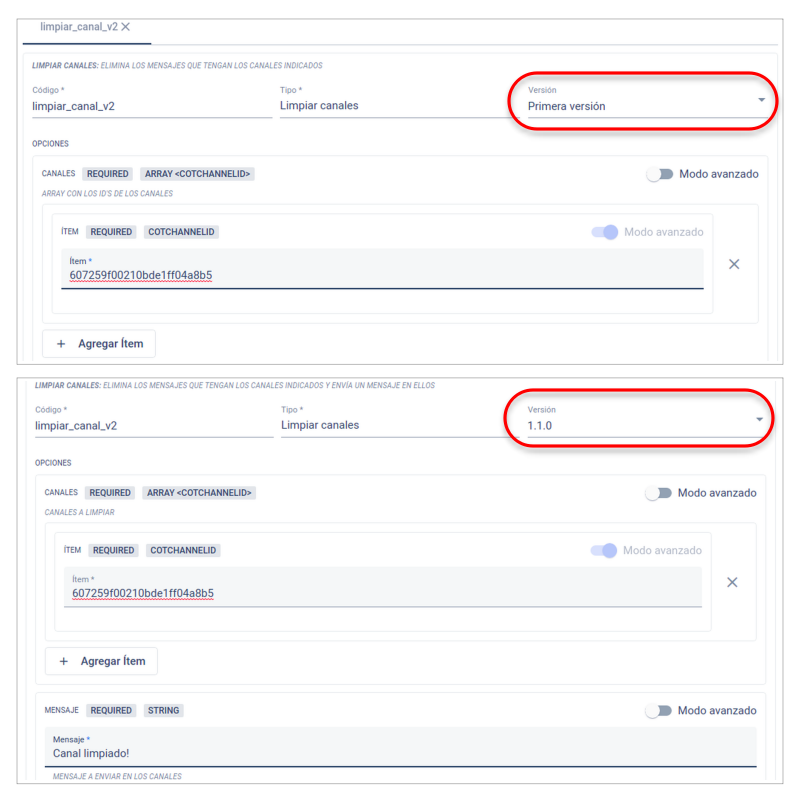
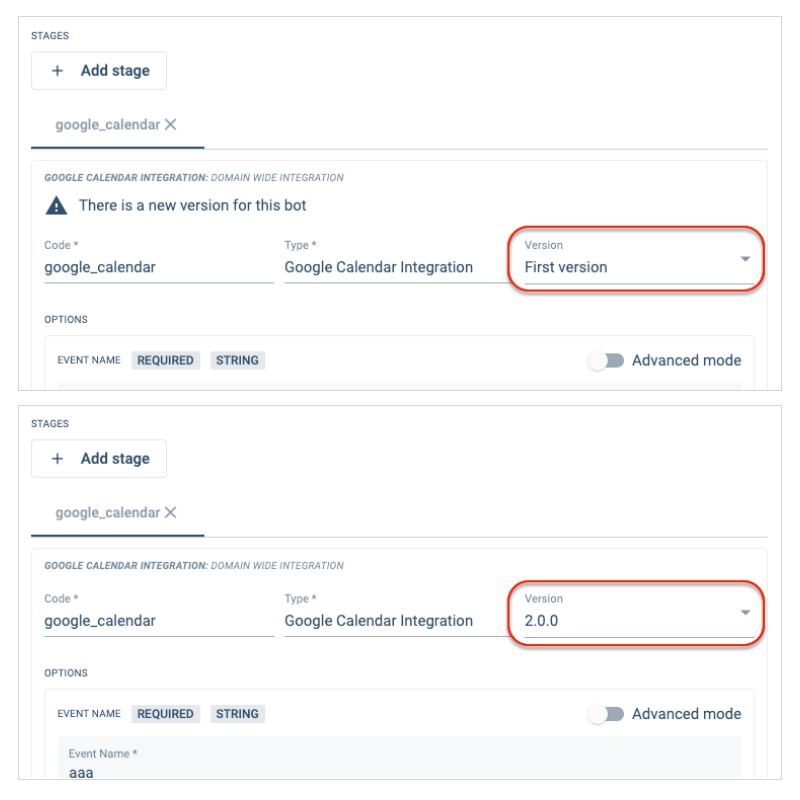
Revised and edited

diff --git a/docs/documentation/automation/existing_routines.md b/docs/documentation/automation/existing_routines.md
@@ -24,58 +24,92 @@ Stage Types are explained in the following table:
 
 | Stage Type Name (Bot) | Description | Key |
 | ---- | ---- | ---- |
-| [Custom Javascript Code](/docs/documentation/automation/bots/ccjs) | Sandboxed JS runner. | _CCJS_ |
-| [Iterate](/docs/documentation/automation/bots/fceach) | Iterate over an Array | _FCEach_ |
-| [Conditional](/docs/documentation/automation/bots/fcifelse) | Execute the next stage conditionally based on the operator's left and right hand | _FCIfElse_ |
-| [Wait](/docs/documentation/automation/bots/fcsleep) | Execute the next stage after the defined milliseconds | _FCSleep_ |
-| [Multiple switch](/docs/documentation/automation/bots/fcswitchall) | Execute all stages conditionally and in parallel according to the operator's left and right hand | _FCSwitchAll_ |
-| [Switch](/docs/documentation/automation/bots/fcswitchone) | Conditionally executes the next stage based on the left and right hand of the operator | _FCSwitchOne_ |
-| [Run legacy bot](/docs/documentation/automation/bots/nwbotv2v3) | Makes a network request to execute a legacy bot | _NWBotV2V3_ |
-| [Network request](/docs/documentation/automation/bots/nwrequest) | Makes a network request | _NWRequest_ |
-| [Action Button](/docs/documentation/automation/bots/pbactionbutton) |  | _PBActionButton_ |
-| [Search for answers](/docs/documentation/automation/bots/pbanswerchecker) | Search for form responses | _PBAnswerChecker_ |
-| [Change Task Status](/docs/documentation/automation/bots/pbchangestate) | Change the status of a Task | _PBChangeState_ |
-| [Edit Channel Users](/docs/documentation/automation/bots/pbchanneladduser) | Add or remove users from a Channel | _PBChannelAddUser_ |
-| [Get Task from a Channel](/docs/documentation/automation/bots/pbchanneltotaskse) | Gets the Task associated with a Channel (if any) | _PBChannelToTaskSE_ |
-| [Clean channels](/docs/documentation/automation/bots/pbcleanchannel) | Delete the messages that have the indicated channels | _PBCleanChannel_ |
-| [Copy messages](/docs/documentation/automation/bots/pbcopysurvey) | Copy messages from one Channel to another | _PBCopySurvey_ |
-| [Create Channel](/docs/documentation/automation/bots/pbcreatechannel) | Create a new Channel | _PBCreateChannel_ |
-| [Create Property](/docs/documentation/automation/bots/pbcreateproperty) | Create a new Property | _PBCreateProperty_ |
-| [Create Task](/docs/documentation/automation/bots/pbcreatetask) | Create a new Task | _PBCreateTask_ |
-| [Create User](/docs/documentation/automation/bots/pbcreateuser) | Create a new User | _PBCreateUser_ |
-| [Duplicate Task](/docs/documentation/automation/bots/pbduplicatetask) |  | _PBDuplicateTask_ |
-| [Change Form to edit mode](/docs/documentation/automation/bots/pbeditablesurvey) | Change a set of forms to edit mode | _PBEditableSurvey_ |
-| [Send email](/docs/documentation/automation/bots/pbemail) | Send an email | _PBEmail_ |
-| [Get Channel Messages](/docs/documentation/automation/bots/pbgetchannelmessages) |  | _PBGetChannelMessages_ |
-| [Send gif](/docs/documentation/automation/bots/pbgiphy) | Send a gif to a Channel | _PBGiphy_ |
-| [Google Calendar Integration](/docs/documentation/automation/bots/pbgooglecalendar) | Send Google Calendar invitations. Domain wide integration; Google Workspace required. | _PBGoogleCalendar_ |
-| [Hide messages](/docs/documentation/automation/bots/pbhidemessages) | Hide messages from a Channel | _PBHideMessages_ |
-| [Send message](/docs/documentation/automation/bots/pbmessage) | Send a message to a set of channels | _PBMessage_ |
-| [Payments](/docs/documentation/automation/bots/pbpayments) |  | _PBPayments_ |
-| [Create PDF](/docs/documentation/automation/bots/pbpdf) | Create a PDF from a local file or a URL | _PBPdf_ |
-| [Generate QR code](/docs/documentation/automation/bots/pbqrcode) | Generate a QR code | _PBQRCode_ |
-| [Script](/docs/documentation/automation/bots/pbscript) |  | _PBScript_ |
-| [Submit Form](/docs/documentation/automation/bots/pbsendsurvey) | Send a Form to a Channel | _PBSendSurvey_ |
-| [Edit users of a Task](/docs/documentation/automation/bots/pbtaskaddeditor) | Add or remove users from a Task | _PBTaskAddEditor_ |
-| [Generate HTML](/docs/documentation/automation/bots/pbtemplate) | Generates an HTML from a template and an object with data | _PBTemplate_ |
-| [Update Channel](/docs/documentation/automation/bots/pbupdatechannel) | Update a Channel | _PBUpdateChannel_ |
-| [Update Property](/docs/documentation/automation/bots/pbupdateproperty) | Update a Property | _PBUpdateProperty_ |
-| [Update Task](/docs/documentation/automation/bots/pbupdatetask) | Update a Task | _PBUpdateTask_ |
-| [Update User](/docs/documentation/automation/bots/pbupdateuser) | Update a User | _PBUpdateUser_ |
-| [WhatsApp Integration](/docs/documentation/automation/bots/pbwhatsapp) | Send automated messages via WhatsApp | _PBWhatsApp_ |
-
+| [Custom Javascript Code](/docs/documentation/automation/bots/ccjs) | Sandboxed JS runner. | _CCJS_ |  
+| [Iterate](/docs/documentation/automation/bots/fceach) | Iterate over an Array | _FCEach_ |  
+| [Conditional](/docs/documentation/automation/bots/fcifelse) | Execute the next stage conditionally based on the operator's left and right hand | _FCIfElse_ |  
+| [Wait](/docs/documentation/automation/bots/fcsleep) | Execute the next stage after the defined milliseconds | _FCSleep_ |  
+| [Multiple switch](/docs/documentation/automation/bots/fcswitchall) | Execute all stages conditionally and in parallel according to the operator's left and right hand | _FCSwitchAll_ |  
+| [Switch](/docs/documentation/automation/bots/fcswitchone) | Conditionally executes the next stage based on the left and right hand of the operator | _FCSwitchOne_ |  
+| [Run legacy bot](/docs/documentation/automation/bots/nwbotv2v3) | Makes a network request to execute a legacy bot | _NWBotV2V3_ |  
+| [Network request (2.0.0)](/docs/documentation/automation/bots/nwrequest-2.0.0) | Makes a network request | _NWRequest_ |  
+| [Network request](/docs/documentation/automation/bots/nwrequest) | Makes a network request | _NWRequest_ |  
+| [Action Button (2.0.0)](/docs/documentation/automation/bots/pbactionbutton-2.0.0) |  | _PBActionButton_ |  
+| [Action Button](/docs/documentation/automation/bots/pbactionbutton) |  | _PBActionButton_ |  
+| [Search for answers (2.0.0)](/docs/documentation/automation/bots/pbanswerchecker-2.0.0) | Search for form responses | _PBAnswerChecker_ |  
+| [Search for answers](/docs/documentation/automation/bots/pbanswerchecker) | Search for form responses | _PBAnswerChecker_ |  
+| [Change Task Status (2.0.0)](/docs/documentation/automation/bots/pbchangestate-2.0.0) | Change the status of a Task | _PBChangeState_ |  
+| [Change Task Status](/docs/documentation/automation/bots/pbchangestate) | Change the status of a Task | _PBChangeState_ |  
+| [Edit Channel Users (2.0.0)](/docs/documentation/automation/bots/pbchanneladduser-2.0.0) | Add or remove users from a Channel | _PBChannelAddUser_ |  
+| [Edit Channel Users](/docs/documentation/automation/bots/pbchanneladduser) | Add or remove users from a Channel | _PBChannelAddUser_ |  
+| [Get Task from a Channel (2.0.0)](/docs/documentation/automation/bots/pbchanneltotaskse-2.0.0) | Gets the Task associated with a Channel (if any) | _PBChannelToTaskSE_ |  
+| [Get Task from a Channel](/docs/documentation/automation/bots/pbchanneltotaskse) | Gets the Task associated with a Channel (if any) | _PBChannelToTaskSE_ |  
+| [Clean channels (2.0.0)](/docs/documentation/automation/bots/pbcleanchannel-2.0.0) | Delete the messages that have the indicated channels | _PBCleanChannel_ |  
+| [Clean channels](/docs/documentation/automation/bots/pbcleanchannel) | Delete the messages that have the indicated channels | _PBCleanChannel_ |  
+| [Copy messages (2.0.0)](/docs/documentation/automation/bots/pbcopysurvey-2.0.0) | Copy messages from one Channel to another | _PBCopySurvey_ |  
+| [Copy messages](/docs/documentation/automation/bots/pbcopysurvey) | Copy messages from one Channel to another | _PBCopySurvey_ |  
+| [Create Channel (2.0.0)](/docs/documentation/automation/bots/pbcreatechannel-2.0.0) | Create a new Channel | _PBCreateChannel_ |  
+| [Create Channel](/docs/documentation/automation/bots/pbcreatechannel) | Create a new Channel | _PBCreateChannel_ |  
+| [Create Property (2.0.0)](/docs/documentation/automation/bots/pbcreateproperty-2.0.0) | Create a new Property | _PBCreateProperty_ |  
+| [Create Property](/docs/documentation/automation/bots/pbcreateproperty) | Create a new Property | _PBCreateProperty_ |  
+| [Create Task (2.0.0)](/docs/documentation/automation/bots/pbcreatetask-2.0.0) | Create a new Task | _PBCreateTask_ |  
+| [Create Task](/docs/documentation/automation/bots/pbcreatetask) | Create a new Task | _PBCreateTask_ |  
+| [Create User (2.0.0)](/docs/documentation/automation/bots/pbcreateuser-2.0.0) | Create a new User | _PBCreateUser_ |  
+| [Create User](/docs/documentation/automation/bots/pbcreateuser) | Create a new User | _PBCreateUser_ |  
+| [Duplicate Task (2.0.0)](/docs/documentation/automation/bots/pbduplicatetask-2.0.0) |  | _PBDuplicateTask_ |  
+| [Duplicate Task](/docs/documentation/automation/bots/pbduplicatetask) |  | _PBDuplicateTask_ |  
+| [Change Form to edit mode (2.0.0)](/docs/documentation/automation/bots/pbeditablesurvey-2.0.0) | Change a set of forms to edit mode | _PBEditableSurvey_ |  
+| [Change Form to edit mode](/docs/documentation/automation/bots/pbeditablesurvey) | Change a set of forms to edit mode | _PBEditableSurvey_ |  
+| [Send email (2.0.0)](/docs/documentation/automation/bots/pbemail-2.0.0) | Send an email | _PBEmail_ |  
+| [Send email](/docs/documentation/automation/bots/pbemail) | Send an email | _PBEmail_ |  
+| [Get Channel Messages (2.0.0)](/docs/documentation/automation/bots/pbgetchannelmessages-2.0.0) |  | _PBGetChannelMessages_ |  
+| [Get Channel Messages](/docs/documentation/automation/bots/pbgetchannelmessages) |  | _PBGetChannelMessages_ |  
+| [Send gif](/docs/documentation/automation/bots/pbgiphy) | Send a gif to a Channel | _PBGiphy_ |  
+| [Google Calendar Integration (2.0.0)](/docs/documentation/automation/bots/pbgooglecalendar-2.0.0) | Domain wide integration | _PBGoogleCalendar_ |  
+| [Google Calendar Integration](/docs/documentation/automation/bots/pbgooglecalendar) | Domain wide integration | _PBGoogleCalendar_ |  
+| [Hide messages (2.0.0)](/docs/documentation/automation/bots/pbhidemessages-2.0.0) | Hide messages from a Channel | _PBHideMessages_ |  
+| [Hide messages](/docs/documentation/automation/bots/pbhidemessages) | Hide messages from a Channel | _PBHideMessages_ |  
+| [Send message (2.0.0)](/docs/documentation/automation/bots/pbmessage-2.0.0) | Send a message to a set of channels | _PBMessage_ |  
+| [Send message](/docs/documentation/automation/bots/pbmessage) | Send a message to a set of channels | _PBMessage_ |  
+| [Payments (2.0.0)](/docs/documentation/automation/bots/pbpayments-2.0.0) |  | _PBPayments_ |  
+| [Payments](/docs/documentation/automation/bots/pbpayments) |  | _PBPayments_ |  
+| [Create PDF (2.0.0)](/docs/documentation/automation/bots/pbpdf-2.0.0) | Create a PDF from a local file or a URL | _PBPdf_ |  
+| [Create PDF](/docs/documentation/automation/bots/pbpdf) | Create a PDF from a local file or a URL | _PBPdf_ |  
+| [Generate QR code (2.0.0)](/docs/documentation/automation/bots/pbqrcode-2.0.0) | Generate a QR code | _PBQRCode_ |  
+| [Generate QR code](/docs/documentation/automation/bots/pbqrcode) | Generate a QR code | _PBQRCode_ |  
+| [Script (2.0.0)](/docs/documentation/automation/bots/pbscript-2.0.0) |  | _PBScript_ |  
+| [Script](/docs/documentation/automation/bots/pbscript) |  | _PBScript_ |  
+| [Submit Form (2.0.0)](/docs/documentation/automation/bots/pbsendsurvey-2.0.0) | Send a Form to a Channel | _PBSendSurvey_ |  
+| [Submit Form](/docs/documentation/automation/bots/pbsendsurvey) | Send a Form to a Channel | _PBSendSurvey_ |  
+| [Edit users of a Task (2.0.0)](/docs/documentation/automation/bots/pbtaskaddeditor-2.0.0) | Add or remove users from a Task | _PBTaskAddEditor_ |  
+| [Edit users of a Task](/docs/documentation/automation/bots/pbtaskaddeditor) | Add or remove users from a Task | _PBTaskAddEditor_ |  
+| [Generate HTML (2.0.0)](/docs/documentation/automation/bots/pbtemplate-2.0.0) | Generates an HTML from a template and an object with data | _PBTemplate_ |  
+| [Generate HTML](/docs/documentation/automation/bots/pbtemplate) | Generates an HTML from a template and an object with data | _PBTemplate_ |  
+| [Update Channel (2.0.0)](/docs/documentation/automation/bots/pbupdatechannel-2.0.0) | Update a Channel | _PBUpdateChannel_ |  
+| [Update Channel](/docs/documentation/automation/bots/pbupdatechannel) | Update a Channel | _PBUpdateChannel_ |  
+| [Update Property (2.0.0)](/docs/documentation/automation/bots/pbupdateproperty-2.0.0) | Update a Property | _PBUpdateProperty_ |  
+| [Update Property](/docs/documentation/automation/bots/pbupdateproperty) | Update a Property | _PBUpdateProperty_ |  
+| [Update Task (2.0.0)](/docs/documentation/automation/bots/pbupdatetask-2.0.0) | Update a Task | _PBUpdateTask_ |  
+| [Update Task](/docs/documentation/automation/bots/pbupdatetask) | Update a Task | _PBUpdateTask_ |  
+| [Update User (2.0.0)](/docs/documentation/automation/bots/pbupdateuser-2.0.0) | Update a User | _PBUpdateUser_ |  
+| [Update User](/docs/documentation/automation/bots/pbupdateuser) | Update a User | _PBUpdateUser_ |  
+| [WhatsApp Integration](/docs/documentation/automation/bots/pbwhatsapp) | Send message via WhatsApp | _PBWhatsApp_ |
 
 ## Stage Type Versions {#stage-type-versions}
 
-_Stage types_ are actually predefined system bots. Every once in a while, we update these bots, adding new features and options or just improving automations. But, because these changes might affect your existing _routines_, access to older versions is available.
+_Stage types_ are actually predefined system bots. Every once in a while, we update these bots adding new features and options, or just improving automations. But, because these changes might affect your existing _routines_, the older versions remain available.
 
-You can see where the _version_ field is located and how versions can have different settings in the following image:
+_In the image below, you can see where the **version** field is located and the alert message that indicates a newer version is available:_
 
 <img alt="stage type versions" className="img_sizing_narrow item shadow--tl" src={useBaseUrl('img/automations_routines_stage_type_version_00.png')} />
 <br/>
 <br/>
 
+:::note Take into account
+- Newer versions might contain different settings fields.
+- When changing to a new version, all current settings will be erased and must be set again manually.
+- Although older versions remain available for existing routines, they cannot be chosen for new stages.
+:::
+
 :::caution Attention
-- In case a new version is available, an alert message will appear in the settings panel.
-- If you change the version of a stage type, you will not go back to previous versions after saving.
+- If you change the version of a stage type, you will not be able to go back to previous versions after saving.
 :::
